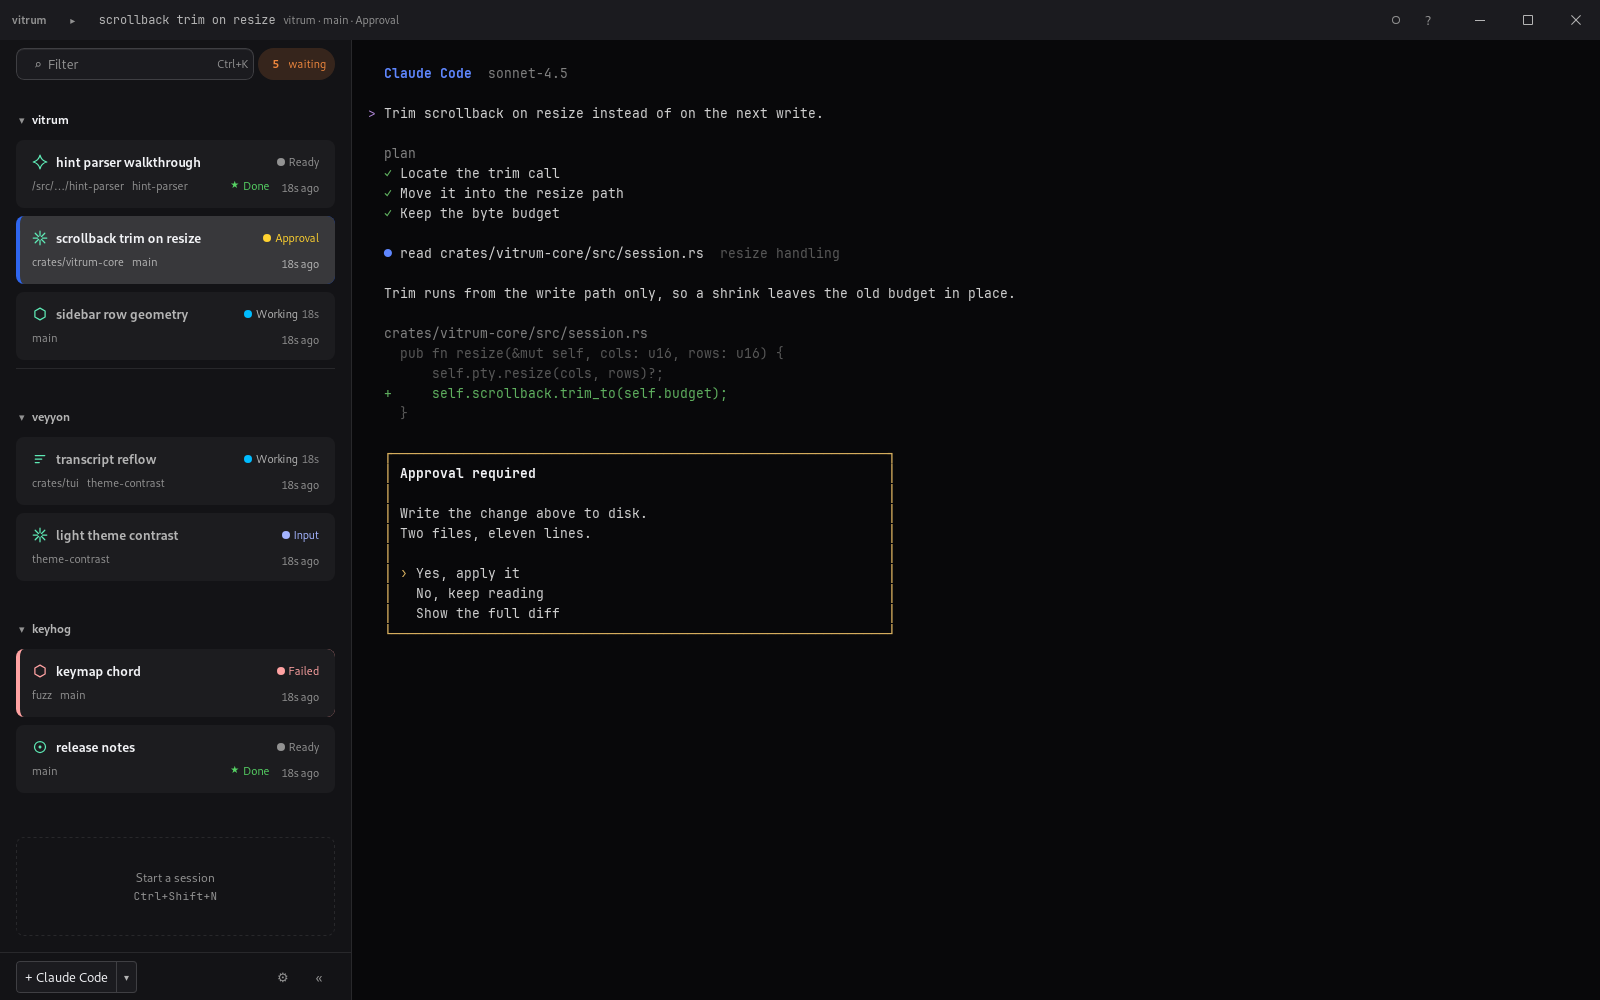
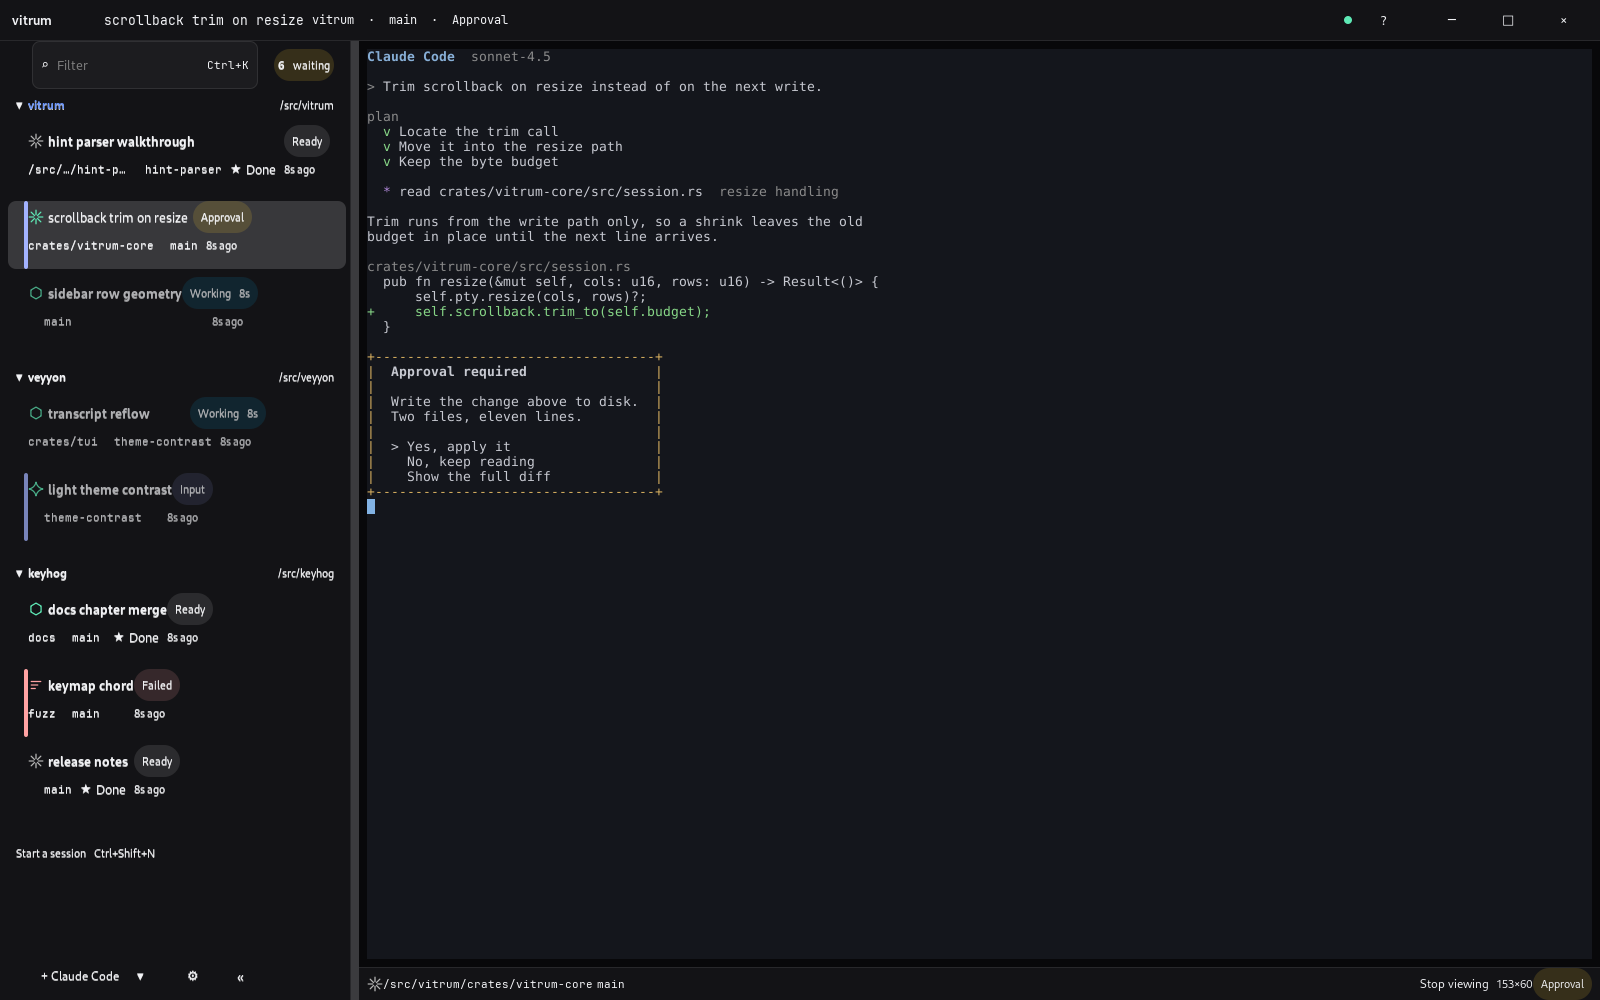
Draw a control at its stated size, and a gap where two facts meet
Six defects read off the captured shots, all of the same two kinds.

A stock outline. The sidebar footer carried a near-white arc at y 952 to
955 and every saved chip in the launcher carried the same curve. It was
Adwaita's button box-shadow, which the reset removed a border and a
padding from but not a shadow, so `box-shadow: none` joins that reset.

A control filling its row. A footer button stated 32px and was allocated
the footer's 48, so its shadow landed where the footer's own edge is; the
titlebar's connection mark stated a 32px pill and was allocated the bar's
40, so a pill drawn with rounded ends lost both of them to the bar's
edges and read as a dark green sliver clipped top and bottom, with the
dot inside it stretched into a light bar. The sidebar's press control and
the titlebar's actions box are now `valign: center`, and the dot with
them, so each is its stated height inside whatever row it sits in.

A connected daemon says nothing, so the mark is now the dot alone: the
chip is painted only for a state that has a word, and the dot carries the
state colour it used to take from the chip behind it. Measured on the rig
at 1600x1000: pixel (1310, 20) was `29,49,45` under a clipped pill and is
now the bar's own `19,19,22` beside a round `hue-done` dot.

Two facts with nothing between them. A launcher row read `1<mark>claude`
and a worktree row read `claudehint-parser`; a sidebar row read
`<mark>hint parser walkthrough`; a saved chip read `<mark>Claude Code`.
[…]

diff --git a/app/assets/shell.css b/app/assets/shell.css
@@ -64,11 +64,14 @@
 
 /* A button's box is the sheet's, not the theme's.
  *
- * The stock theme adds vertical padding and a 1px border to every button, on
- * top of whatever `min-height` a rule here states. A control declared 32px
- * tall is drawn 46px tall, which is why the sidebar's footer overflowed the
- * bottom of the window and lost the bottom edge of its own controls, and why
- * a glyph button that was never meant to have an outline wears one.
+ * The stock theme adds vertical padding, a 1px border and an inset shadow to
+ * every button, on top of whatever `min-height` a rule here states. A control
+ * declared 32px tall is drawn 46px tall, which is why the sidebar's footer
+ * overflowed the bottom of the window and lost the bottom edge of its own
+ * controls, and why a glyph button that was never meant to have an outline
+ * wears one. Zeroing the border is not enough on its own: the near-white arc
+ * left over the footer's controls after that was the shadow, which is drawn
+ * whatever the border does.
  *
  * Horizontal padding is left alone: the buttons that carry text and do not
  * state their own inset get their breathing room from it, and a zero there
@@ -80,6 +83,7 @@
   padding-top: 0;
   padding-bottom: 0;
   border-width: 0;
+  box-shadow: none;
 }
 
 /* ── Titlebar ────────────────────────────────────────────────────────────── */
@@ -434,7 +438,11 @@
   min-height: $row-collapsed-h$;
 }
 
+/* Follows the agent's drawn mark on line one. The gap sits here rather than on
+ * the mark, because the mark is a drawing area and a margin on it is spent
+ * inside its own allocation. Without it a row reads `<mark>hint parser`. */
 .rg-session__title {
+  margin-left: $space-1$;
   font-size: $text-13$;
   font-weight: $weight-medium$;
   color: $fg-strong$;
@@ -1499,12 +1507,17 @@
 }
 
 /* A drawn glyph, sized in Rust from the type scale. It reads only its
- * foreground, so a length here would fight the size the widget already has. */
+ * foreground, so a length here would fight the size the widget already has,
+ * and the gap after it belongs to the label that follows. */
 .rg-launch__agent {
   color: $fg$;
 }
 
+/* Follows the row's own label, which expands to fill the row, so the two meet
+ * with nothing between them. Without the gap a worktree row reads
+ * `claudehint-parser`. */
 .rg-launch__branch {
+  margin-left: $space-2$;
   font-family: $font-mono$;
   font-size: $text-11$;
   color: $fg-subtle$;
@@ -1519,12 +1532,18 @@
   color: $fg-faint$;
 }
 
+/* Follows the mark. A margin on a drawing area is spent inside its own
+ * allocation, so the gap is stated here or the row reads `<mark>claude`. */
 .rg-launch__text {
+  margin-left: $space-1$;
   font-size: $text-13$;
   color: $fg$;
 }
 
+/* Leads the row, immediately before the agent's drawn mark. Without the gap a
+ * row reads `1<mark>claude` with the ordinal touching the glyph. */
 .rg-launch__key {
+  margin-right: $space-2$;
   font-family: $font-mono$;
   font-size: $text-11$;
   color: $fg-faint$;
@@ -1605,12 +1624,14 @@
 }
 
 /* Drawn glyphs. Sized in Rust from the type scale, so the sheet gives them
- * a foreground and nothing that could disagree with that size. */
+ * a foreground and nothing that could disagree with that size. The gap after
+ * one belongs to the label beside it. */
 .rg-presets__icon {
   color: $fg-muted$;
 }
 
 .rg-presets__text {
+  margin-left: $space-1$;
   font-size: $text-12$;
   color: $fg$;
 }
@@ -1644,6 +1665,7 @@
 }
 
 .rg-recents__text {
+  margin-left: $space-1$;
   font-size: $text-12$;
   color: $fg$;
 }
@@ -1923,8 +1945,10 @@
 
 /* ── The daemon banner ───────────────────────────────────────────────────── */
 
+/* Carries a chip only while it has a word to say. A connected daemon says
+ * nothing, and a chip drawn around a lone dot is a green blob in the corner
+ * of the titlebar. */
 .rg-conn {
-  min-height: $row-h$;
   padding-left: $space-2$;
   padding-right: $space-2$;
   border-radius: $radius-sm$;
@@ -1932,11 +1956,29 @@
   color: $hue-ready$;
 }
 
+/* The dot carries the state on its own, because in the connected state it is
+ * the only thing painted. */
 .rg-conn__dot {
   min-width: $dot-size$;
   min-height: $dot-size$;
   border-radius: $radius-full$;
   background-color: $hue-ready$;
+}
+
+.rg-conn--ok .rg-conn__dot {
+  background-color: $hue-done$;
+}
+
+.rg-conn--connecting .rg-conn__dot {
+  background-color: $hue-approval$;
+}
+
+.rg-conn--failed .rg-conn__dot {
+  background-color: $hue-failed$;
+}
+
+.rg-conn--fixture .rg-conn__dot {
+  background-color: $hue-input$;
 }
 
 /* Present and empty until the socket answers. */
@@ -1952,8 +1994,10 @@
 }
 
 .rg-conn.rg-conn--ok {
-  background-color: $hue-done-soft$;
+  background-color: transparent;
   color: $hue-done$;
+  padding-left: 0;
+  padding-right: 0;
 }
 
 .rg-conn.rg-conn--connecting {

diff --git a/app/src/ui/titlebar/native.rs b/app/src/ui/titlebar/native.rs
@@ -129,6 +129,10 @@ pub(crate) fn panel(shell: &Shell) -> Rc<dyn Panel> {
 
     let actions = gtk::Box::new(gtk::Orientation::Horizontal, 0);
     actions.style_context().add_class("rg-titlebar__actions");
+    // The actions are their stated height, centred in the bar. Left to fill,
+    // a pill drawn at the bar's full height loses its rounded ends to the
+    // bar's edges.
+    actions.set_valign(gtk::Align::Center);
     bar.pack_start(&actions, false, false, 0);
 
     // A quiet chip, not a modal. About owns Install; this only says a newer
@@ -152,6 +156,8 @@ pub(crate) fn panel(shell: &Shell) -> Rc<dyn Panel> {
     link.style_context().add_class("rg-conn");
     let dot = gtk::Box::new(gtk::Orientation::Horizontal, 0);
     dot.style_context().add_class("rg-conn__dot");
+    // A dot is round only at its own size; filling the pill makes it a bar.
+    dot.set_valign(gtk::Align::Center);
     link.pack_start(&dot, false, false, 0);
     let word = gtk::Label::new(None);
     word.style_context().add_class("rg-conn__word");

diff --git a/app/src/ui/sidebar/widgets.rs b/app/src/ui/sidebar/widgets.rs
@@ -356,6 +356,11 @@ fn build(
         Kind::Press(initial) => {
             let button = gtk::Button::new();
             button.set_relief(gtk::ReliefStyle::None);
+            // A control is the height its rule states, not the height of the
+            // row it happens to sit in. Filling made the footer's buttons 48px
+            // tall against a stated 32, so their bottom edge went off the
+            // window and their top edge drew a line across the sidebar.
+            button.set_valign(gtk::Align::Center);
             let inner = gtk::Box::new(gtk::Orientation::Horizontal, 0);
             button.add(&inner);
             let held = Rc::new(Cell::new(*initial));
